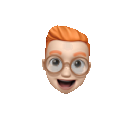
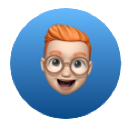
Fix creepy transparent-eye memoji, remove tongue animation
Background removal was keying out white glasses/eye pixels along with
the blue circle. Regenerated from the untouched original via edge-flood-fill
so it stops at the circle boundary. Also cut the blep tongue SVG/animation.

diff --git a/index.html b/index.html
@@ -49,12 +49,7 @@ main{max-width:var(--column-width);margin:0 auto;padding:5rem 1.25rem 6rem;}
   75%{transform:translateY(-4px) rotate(1deg) scale(1.015);}
   88%{transform:translateY(-1px) rotate(-3deg) scale(.995);}
 }
-.avatar .tongue{position:absolute;left:34.4%;top:64%;width:31%;transform-origin:50% 0%;transform:scaleY(0);animation:blep 9s ease-in-out infinite;}
-@keyframes blep{
-  0%,88%,100%{transform:scaleY(0);}
-  91%,96%{transform:scaleY(1);}
-}
-@media (prefers-reduced-motion:reduce){.avatar img{animation:none;}.avatar .tongue{animation:none;transform:scaleY(0);}}
+@media (prefers-reduced-motion:reduce){.avatar img{animation:none;}}
 header h1{font-family:var(--font-body);font-size:1.625rem;font-weight:600;letter-spacing:-0.02em;}
 .updated{color:var(--color-secondary);margin-top:.15rem;}
 .bio{margin-top:2.5rem;display:flex;flex-direction:column;gap:1.25rem;}
@@ -94,7 +89,6 @@ footer a{color:inherit;}
 <header>
   <div class="avatar" id="avatar" aria-hidden="true">
     <img src="images/memoji-face-2.png" width="88" height="88" alt="">
-    <svg class="tongue" viewBox="0 0 40 20"><path d="M2,0 Q2,18 20,18 Q38,18 38,0 Z" fill="#d9636f"/></svg>
   </div>
   <h1>Joshua Trommel</h1>
   <div class="updated">Langley, BC</div>
